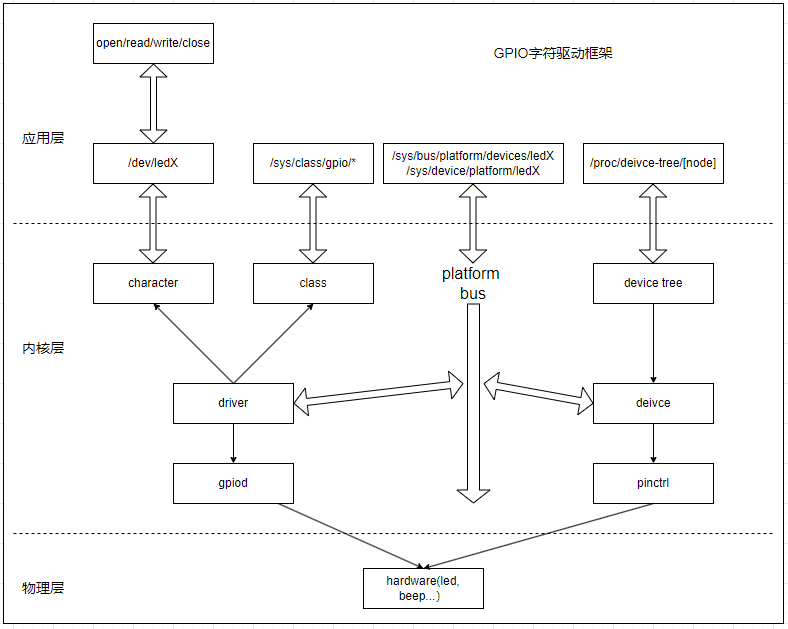
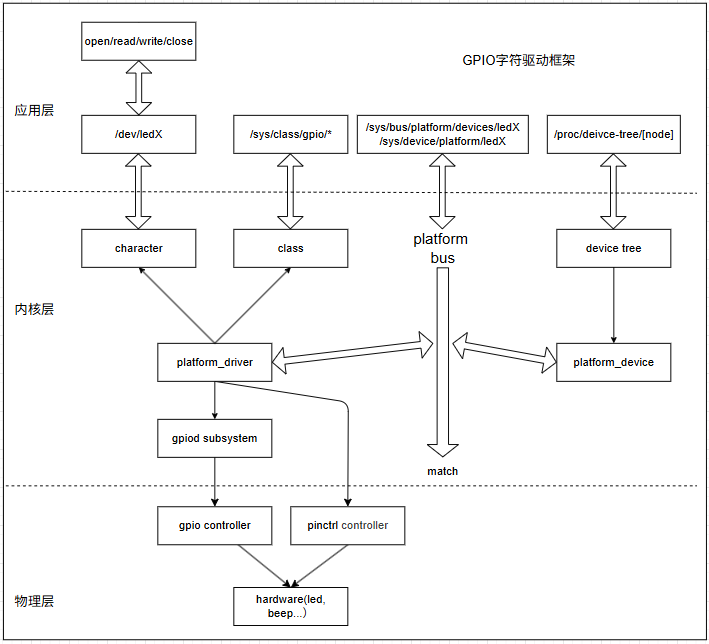
✨ feat(all): 更新udev功能说明。

diff --git a/src/ch02-xz.system_feature_notes.md b/src/ch02-xz.system_feature_notes.md
@@ -1,16 +1,19 @@
 # 附录六: 系统平台常见问题总结
 
-- [修改内核logo显示](#feature-001)
-- [systemd增加自定义服务方法](#feature-002)
-- [指定console输出接口(串口或者屏幕)](#feature-003)
-- [开机启动延时一段时间执行脚本](#feature-004)
-- [nfs启动显示为Read-Only FileSystem](#feature-005)
-- [什么是核隔离，如何让系统支持核隔离](#feature-006)
-- [内核支持usb wifi芯片，并且开机自启动方法](#question-007)
-- [修改系统输出由uart1切换到uart3](#question-008)
-- [如何管理Linux硬盘分区，例如支持data，recovery分区](#question-009)
+本节列出问题如下所示。
 
-## feature-001
+- 001.修改内核logo显示
+- 002.systemd增加自定义服务方法
+- 003.指定console输出接口(串口或者屏幕)
+- 004.开机启动延时一段时间执行脚本
+- 005.nfs启动显示为Read-Only FileSystem
+- 006.什么是核隔离，如何让系统支持核隔离
+- 007.内核支持usb wifi芯片，并且开机自启动方法
+- 008.修改系统输出由uart1切换到uart3
+- 009.NXP如何管理Linux硬盘分区，例如支持data，recovery分区
+- 010.如何使用udev管理设备，并在系统中创建链接
+
+## 001.修改内核logo显示
 
 - 系统启动后加载的界面文件所在的目录为kernel/drivers/video/logo, 其中*.ppm格式文件就是转换需要使用得ppm文件
 - 在微软商店下载GIMP，添加一张图片=>图像=>模式=>索引颜色转换=>最大颜色数量设置为(224), 设置分辨率大小，并导出
@@ -79,7 +82,7 @@ Bootup logo  --->
  Standard 224-color  hanbo logo (NEW)  （修改）
 ```
 
-## feature-002
+## 002.systemd增加自定义服务方法
 
 systemd增加自启动服务方法。
 
@@ -129,7 +132,7 @@ systemctl status example.service
 
 注意：shell脚本首行要指定使用的shell平台，例如bash脚本则为"#!/bin/bash"，否则脚本会执行失败。
 
-## feature-003
+## 003.指定console输出接口(串口或者屏幕)
 
 指定console输出接口(串口或者屏幕)。
 
@@ -158,7 +161,7 @@ cd /etc/systemd/system/getty.target.wants
 cp -d getty@tty1.service getty@ttymxc0.service
 ```
 
-## feature-004
+## 004.开机启动延时一段时间执行脚本
 
 开机启动延时一段时间执行。
 
@@ -196,7 +199,7 @@ chmod 777 /home/sys/shell/bringup_shell.sh
 
 对于debian系统，添加到系统service中。
 
-## feature-005
+## 005.nfs启动显示为Read-Only FileSystem
 
 nfs系统创建文件报错: can't create directory 'dir': Read-only file system.
 
@@ -210,9 +213,7 @@ setenv bootargs 'console=ttymxc0,115200 root=/dev/nfs rw nfsroot=192.168.1.25:[n
 mount rw -o remount /
 ```
 
-### feature-006
-
-什么是核隔离，如何让系统支持核隔离。
+## 006.什么是核隔离，如何让系统支持核隔离
 
 在Linux系统中，核隔离(也称为CPU隔离或CPU pinning)是一种将特定的任务或进程绑定到特定的CPU核心上的技术。这可以提高系统性能，尤其是在需要实时响应的应用中。如果需要核隔离，首先确保芯片为多核才有意义，实现核隔离的方法如下所示。
 
@@ -228,7 +229,7 @@ setenv bootargs "console=ttymxc0,115200 panic=5 rootwait root=/dev/mmcblk1p2 ear
 1. 启动新进程并绑定到特定CPU核心：taskset -c 0,1 command。这将把command进程绑定到CPU 0和1上运行。
 2. 将已有进程绑定到特定CPU核心：首先使用ps -ef | grep process_name获取进程的PID，然后使用taskset -p -c 0,1 PID将进程绑定到CPU 0和1上。
 
-### question-007
+## 007.内核支持usb wifi芯片，并且开机自启动方法
 
 内核支持usb wifi芯片，并且开机自启动方法(本篇以Linux6.1内核，rtl8188eus为例)
 
@@ -252,7 +253,7 @@ obj-$(CONFIG_RTL8188EU) += rtl8188eus/
 
 wlan启动并开启自启动的方法详细见文档：[wpa_supplicant交叉编译和使用方法](./ch01-04.linux_cross_compiler.md#wpa_supplicant)
 
-### question-008
+## 008.修改系统输出由uart1切换到uart3
 
 修改系统输出由uart1切换到uart3。
 
@@ -335,7 +336,7 @@ cp -d getty@tty1.service getty@ttymxc2.service
 
 主要修改如上。
 
-### question-009
+## 009.NXP如何管理Linux硬盘分区，例如支持data，recovery分区
 
 如何管理Linux硬盘分区，例如支持data，recovery分区(imx6ull mmc或者sd卡为例)。
 
@@ -409,6 +410,53 @@ setenv bootargs "console=ttymxc0,115200 panic=5 rootwait root=/dev/mmcblk1p3 ear
 
 1. [硬盘格式化的脚本mksdcard.sh](./file/ch02-xz/mksdcard.sh)
 2. [UTP协议执行脚本ucl2.xml](./file/ch02-xz/ucl2.xml)
+
+## 010.如何使用udev管理设备，并在系统中创建链接
+
+在Linux系统中，udev主要`根据设备属性匹配设备，并在设备创建/移除`时自动执行规则动作。使用udev可以解决设备动态加载时，顺序不固定的问题。例如USB键盘和鼠标插入时创建多个`/dev/input/eventX`，此时每个event的对应关系是不确定的，即可通过udev进行管理生成确定的软链接访问。
+
+这里以Buildroot为例，需要在编译时支持udev，通过在文件系统如下编译支持。
+
+```shell
+# eudev
+BR2_ROOTFS_DEVICE_CREATION_DYNAMIC_EUDEV=y
+```
+
+编译完成后，buildroot系统中会在`/etc/init.d/udevd`文件启动挂载，执行如下。
+
+```shell
+# 触发设备注册事件
+# ....
+udevadm trigger --subsystem-match=net --action=add
+
+# 执行设备管理任务
+udevadm settle --timeout=$SETTLE_TIMEOUT || echo "udevadm settle failed"
+```
+
+当然，用户也可以在`etc/udev/rules.d`目录下添加自定义的规则，这里以按键注册为例。
+
+```shell
+# 修改或创建自定义规则
+vi /etc/udev/rusles.d/99-input.rules 
+
+# 内容
+# 匹配名称为usr_key的输入/dev/input/eventX设备
+SUBSYSTEM=="input", KERNEL=="event*", ATTRS{name}=="usr_key", SYMLINK+="input/gpio_key", MODE="0644"
+
+# 匹配USB设备，属于串口，其中idVendor和idProduct如下所示
+SUBSYSTEM=="tty", ATTRS{idVendor}=="0120", ATTRS{idProduct}=="2201", SYMLINK+="tty/user_tty"
+
+# 匹配USB设备，属于输入设备，其中idVendor和idProduct如下所示
+SUBSYSTEM=="input", KERNEL=="event*", ATTRS{name}=="USB_KEYBOARD", ATTRS{idVendor}=="0120", ATTRS{idProduct}=="2205", SYMLINK+="input/usb_key0",MODE="0644"
+```
+
+对于上述配置，具体说明如下。
+
+- SUBSYSTEM: 设备所属的内核子系统，常见的有block、net、tty、usb、input、sound等。
+- KERNEL: 设备匹配的在内核中的名称，这里event*表示匹配/dev/input下的event设备
+- ATTRS: 父设备查找属性，常见的有name对应名称，idVendor/idProduct对应USB的厂商和产品ID
+- SYMLINK: 创建的软链接名称，执行匹配的设备节点`/dev/input/event*`
+- MODE: 创建软链接的读取权限，一般为0644即可。
 
 ## next_chapter
 

diff --git a/src/ch03-04.pinctrl_subsystem.md b/src/ch03-04.pinctrl_subsystem.md
@@ -11,16 +11,12 @@
 
 本节目录如下。
 
-- [pinctrl框架和gpio子系统](#pinctrl框架和gpio子系统)
-  - [pinctrl驱动框架](#pinctrl)
-  - [gpio子系统](#gpio)
-  - [基于gpio的led驱动实现](#gpio_led_driver)
-    - [设备树实现](#dts_driver)
-    - [内核LED驱动实现](#kernel_led)
-  - [gpio的sysfs操作接口](#gpio_sysfs)
-  - [下一章节](#next_chapter)
+- pinctrl驱动框架
+- gpio子系统
+- 基于gpio的led驱动实现
+- gpio的sysfs操作接口
 
-## pinctrl
+## pinctrl驱动框架
 
 pinctrl主要控制引脚的复用，和驱动中相关的pinctrl的接口如下所示。
 
@@ -171,7 +167,7 @@ pinctrl_select_state(chip->led_pinctrl, chip->pinctrl_state[0]);
 pinctrl_select_state(chip->led_pinctrl, chip->pinctrl_state[1]);
 ```
 
-## gpio
+## gpio子系统
 
 对于大部分驱动来说，pinctrl负责管理I/O的复用、如上下拉、驱动能力等；一般在初始化后基本不需要修改。而gpio则负责控制引脚的输入/输出、高低电平；驱动中可以直接使用此资源来设置I/O电平或者读取I/O状态。驱动有多种方式从设备树中获取gpio资源的接口，其中最常见的就是gpio_xx和gpiod_xx接口。从功能上来说，gpio和gpiod都能实现配置引脚输入输出状态和控制引脚的功能；不过gpio属于旧版本Linux的接口，gpiod则是引入的新的API。
 
@@ -354,7 +350,7 @@ chip->led_desc = devm_gpiod_get(&pdev->dev, "led", GPIOD_OUT_LOW) //对应led-gp
 gpiod_set_value(chip->led_desc, 0);
 ```
 
-## gpio_led_driver
+## 基于gpio的led驱动实现
 
 在前面讲解了pinctrl框架和gpio子系统，也了解了gpio的知识，那么现在要开始以这些知识来定义基于设备树的LED驱动，可以知晓需要如下步骤。
 
@@ -366,7 +362,7 @@ gpiod_set_value(chip->led_desc, 0);
 
 下面基于这个步骤进行说明。
 
-### dts_driver
+### 设备树实现
 
 这里以正点原子的阿尔法开发板，使用引脚为GPIO1_3。
 
@@ -415,7 +411,7 @@ gpiosgrp {
 
 详细的LED驱动和应用文件可参考: [LED驱动文件](./file/ch03-04/kernel_led.c)，[LED应用文件](./file/ch03-04/test/led_test.c)。
 
-### kernel_led
+### 内核LED驱动实现
 
 对于LED来说，内核支持leds模块，可以直接控制输出管理。其实现在内核代码路径："drivers/leds/led-gpios.c"。
 
@@ -564,7 +560,7 @@ echo 1 > /sys/class/leds/led-blue/brightness
 
 ![image](./image/ch03-04-03.png)
 
-## gpio_sysfs
+## gpio的sysfs操作接口
 
 对于内核来说，提供了一套用于调试gpio的接口，通过/sys/class/gpio访问。
 
@@ -587,7 +583,7 @@ echo 1 > /sys/class/leds/led-blue/brightness
 
 注意: gpio编号的计算方法是**gpio_N=(gpiochipN*32+gpio_pins)**的位置，当然对于不同的芯片，也有每个控制器只有16位的情况。例如对于I.MX6ULL, GPIO1对应的控制器编号为0，GPIO2为1，依次类推
 
-GPIO信号的路径这里参考/sys/class/gpio/gpio42/，并有如下的读/写属性:
+GPIO信号的路径这里参考`/sys/class/gpio/gpio42/`，并有如下的读/写属性:
 
 1. "direction": 读取得到in或out，有默认值，允许修改写入。写入out时,其引脚的默认输出为低电平。注意：如果内核不支持改变GPIO的方向，或者在导出时内核代码没有明确允许用户空间可以重新配置GPIO方向，那么这个属性将不存在。
 2. "value": 读取得到0(低电平)或1(高电平)。如果GPIO配置为输出，这个值允许写操作。
@@ -634,8 +630,6 @@ int gpio_export_link(struct device *dev, const char *name,
 
 在内核申请一个gpio驱动后，可以通过 gpio_export()使其在sysfs接口(sys class gpio)中可见，该驱动可以控制信号方向是否可修改。这有助于防止用户空间代码无意间破坏重要的系统状态。
 
-## next_chapter
+## 返回目录
 
 [返回目录](../README.md)
-
-直接开始下一章节说明: [input输入子系统](./ch03-05.input_subsystem.md)
